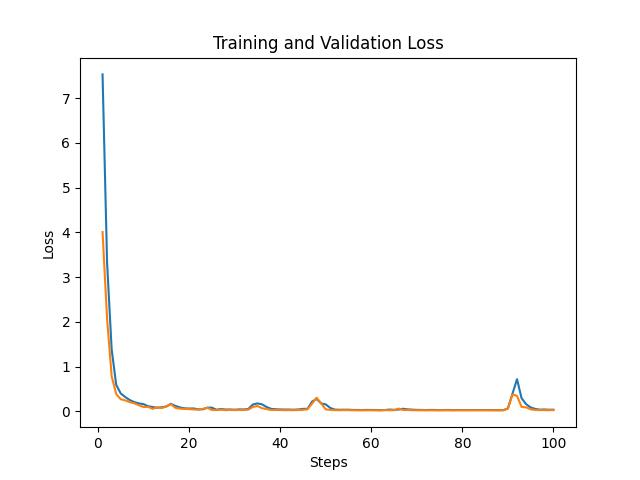
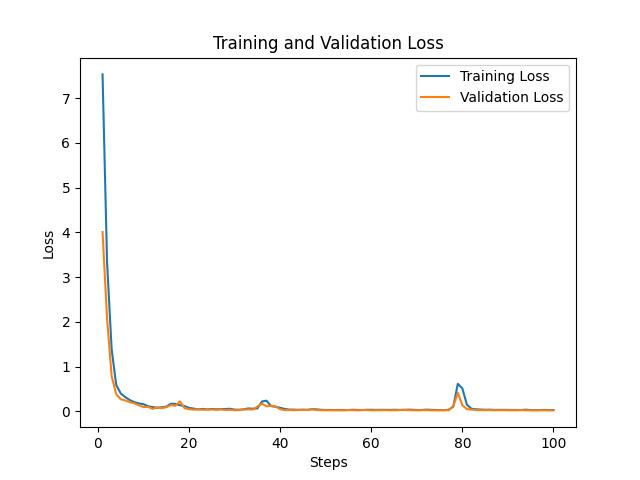
save loss

diff --git a/train.py b/train.py
@@ -35,10 +35,9 @@ plt.plot(epochs_array, model.loss['val'][1:], label='Validation Loss') # Avoidin
 plt.title('Training and Validation Loss')
 plt.xlabel('Steps')
 plt.ylabel('Loss')
-
-plt.xticks(np.arange(0, config['trainer']['max_epochs'], 2))
  
 plt.legend(loc='best')
-plt.show()
 
 plt.savefig('assets/loss.jpg')
+
+plt.show()
